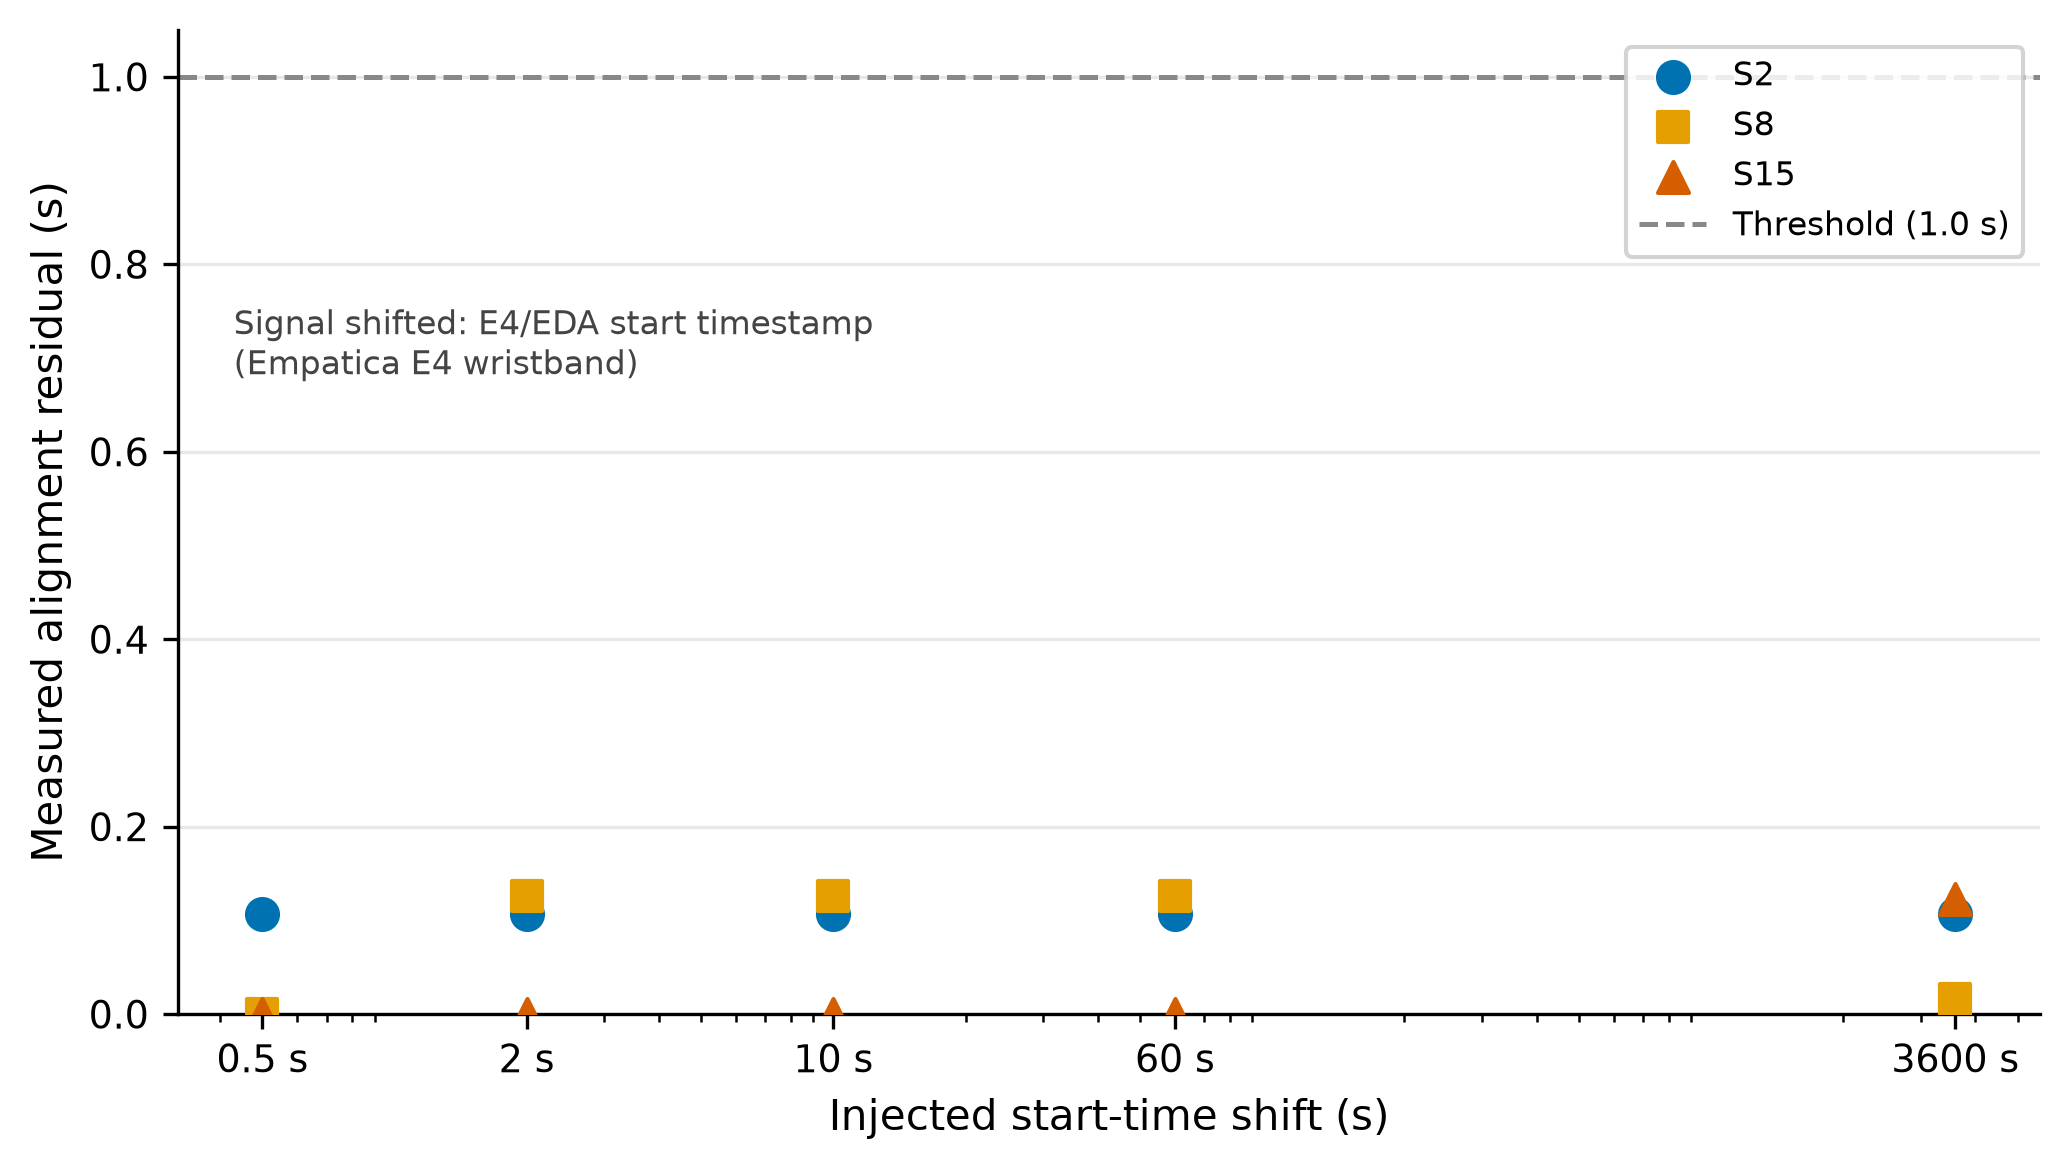
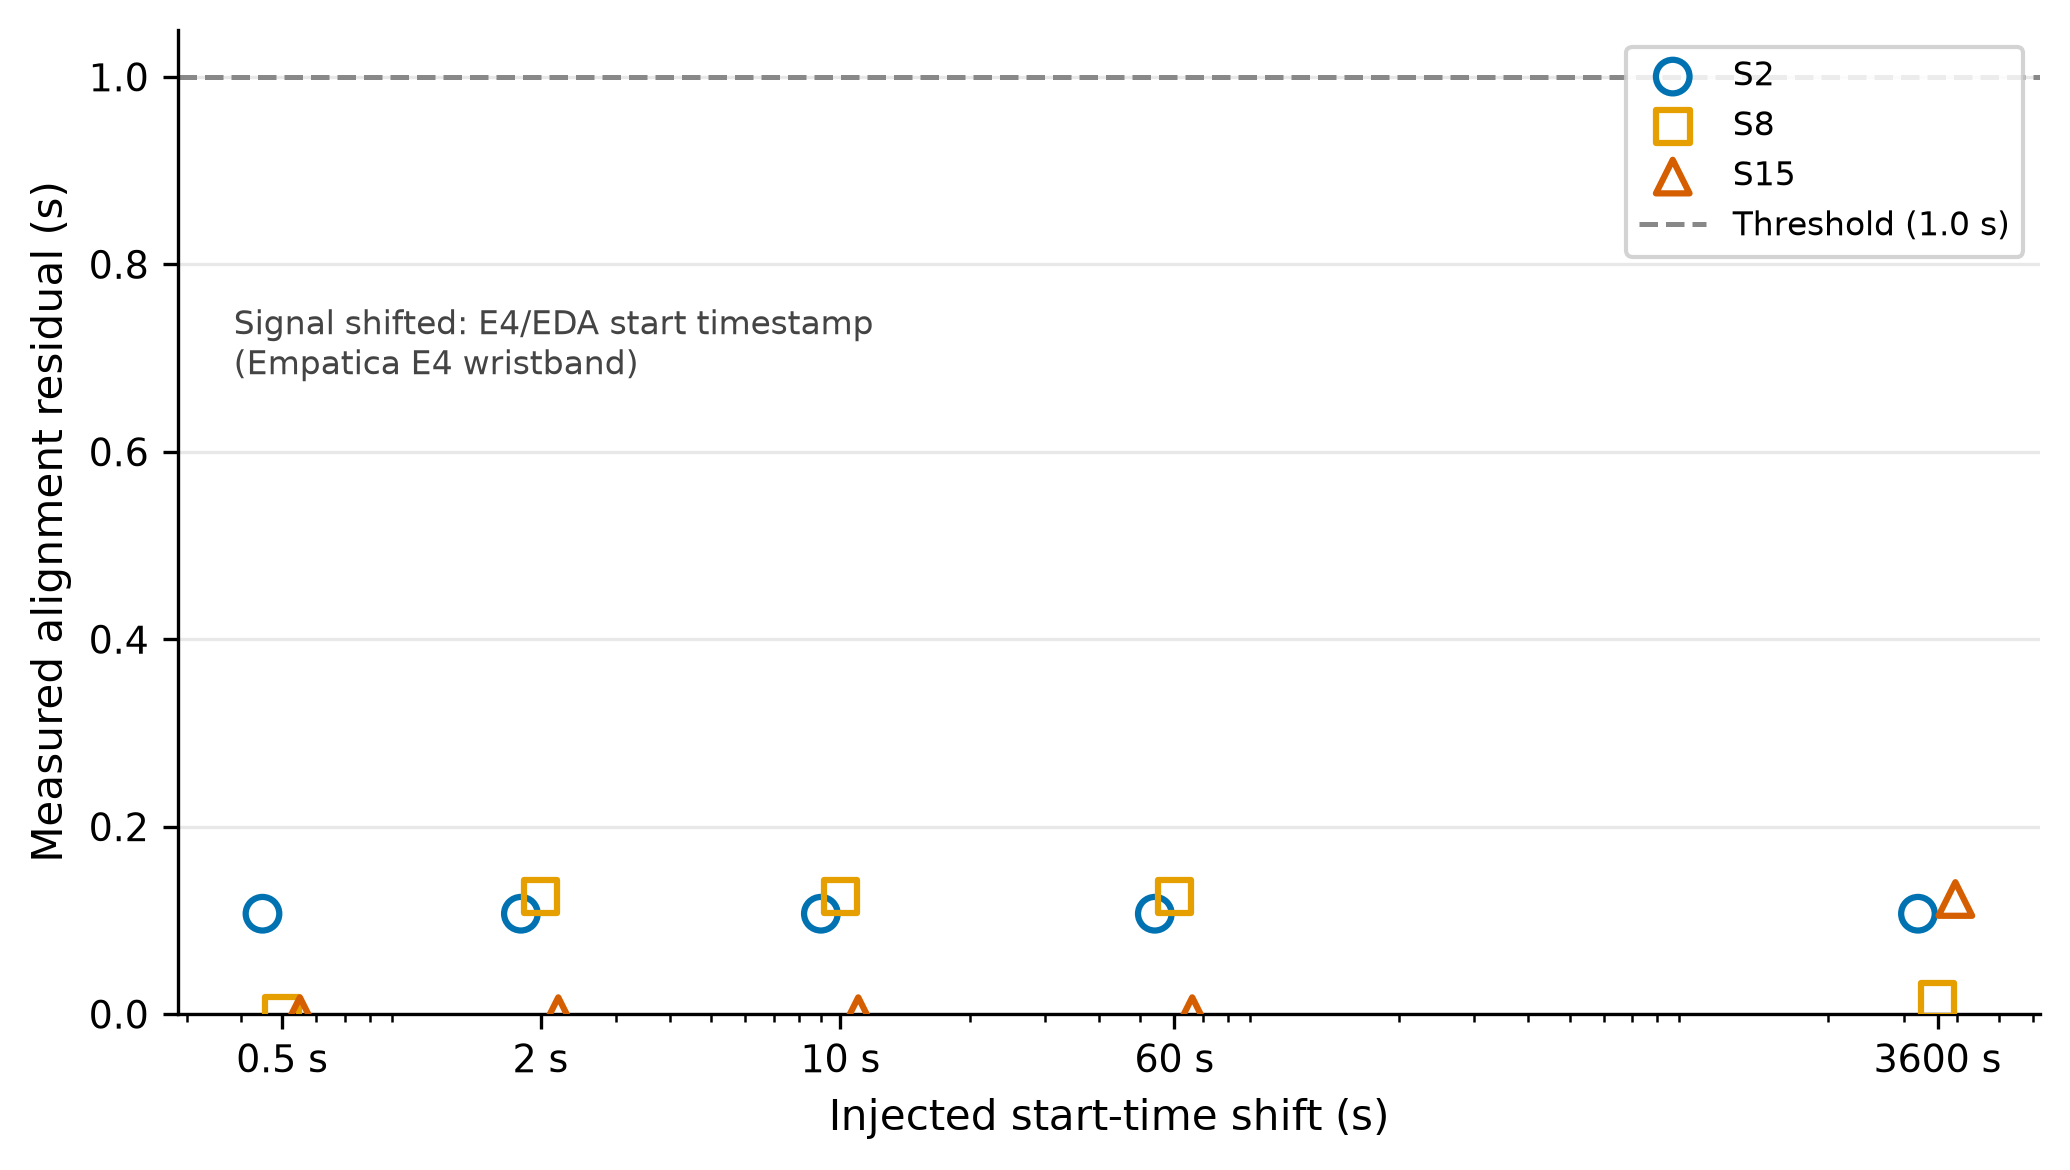
fix(figures): v3 -- break marks and timeliness scatter fixes
Fig 4.1: replace ad-hoc transAxes line segments with the standard
  matplotlib break-mark approach: marker=[(-1,-0.5),(1,0.5)],
  markersize=12, linestyle="none", clip_on=False, placed at (0,0)/(1,0)
  in ax_hi.transAxes and (0,1)/(1,1) in ax_lo.transAxes. All four marks
  are identical size and sit exactly on the axis spine boundary.

Fig 4.2b: switch to hollow markers (facecolors="none") and jitter each
  participant's x position by x0.9/x1.0/x1.1 on the log scale so all
  three participants are visible at every offset. Tick labels remain at
  the true injected offsets.

_save(): add retry loop (up to 5 attempts, 1.5 s delay) to tolerate
  transient OneDrive file locks during development.

109/109 tests pass. git diff touches only src/figures/ and figures/.

diff --git a/src/figures/make_figures.py b/src/figures/make_figures.py
@@ -9,6 +9,7 @@ Tables go to figures/tables/ (CSV + Markdown).
 
 import csv
 import json
+import time
 from pathlib import Path
 
 import matplotlib
@@ -97,10 +98,19 @@ def _load(name: str) -> dict:
 
 
 def _save(fig: plt.Figure, stem: str) -> None:
-    """Save figure as PNG and PDF."""
+    """Save figure as PNG and PDF, retrying on transient file-lock errors."""
     FIGURES.mkdir(parents=True, exist_ok=True)
-    fig.savefig(FIGURES / f"{stem}.png", dpi=DPI, bbox_inches="tight")
-    fig.savefig(FIGURES / f"{stem}.pdf", bbox_inches="tight")
+    for ext, kwargs in [(".png", {"dpi": DPI, "bbox_inches": "tight"}),
+                        (".pdf", {"bbox_inches": "tight"})]:
+        path = FIGURES / f"{stem}{ext}"
+        for attempt in range(5):
+            try:
+                fig.savefig(path, **kwargs)
+                break
+            except OSError:
+                if attempt == 4:
+                    raise
+                time.sleep(1.5)
     plt.close(fig)
 
 
@@ -368,18 +378,13 @@ def fig_temp_artefact(pid: str = "S2") -> None:
         fontsize=10,
     )
 
-    # -- break marks: use transAxes, clip_on=True (default) so nothing draws outside --
-    # height_ratios=[1, 2] -> bottom panel is physically 2x taller.
-    # To get equal physical mark size: d_lo = d_hi * (1/2).
-    d_hi = 0.05   # axes fraction for top (shorter) panel
-    d_lo = 0.025  # axes fraction for bottom (taller) panel
-    bk = dict(color=BLACK, lw=1.2)
-    # bottom edge of top panel (break line, marks straddle y=0 in transAxes)
-    ax_hi.plot((-d_hi, d_hi), (-d_hi, d_hi), transform=ax_hi.transAxes, **bk)
-    ax_hi.plot((1 - d_hi, 1 + d_hi), (-d_hi, d_hi), transform=ax_hi.transAxes, **bk)
-    # top edge of bottom panel (break line, marks straddle y=1 in transAxes)
-    ax_lo.plot((-d_lo, d_lo), (1 - d_lo, 1 + d_lo), transform=ax_lo.transAxes, **bk)
-    ax_lo.plot((1 - d_lo, 1 + d_lo), (1 - d_lo, 1 + d_lo), transform=ax_lo.transAxes, **bk)
+    # -- break marks: standard matplotlib diagonal-marker approach --
+    # marker path [(-1,-0.5),(1,0.5)] draws a "/" slash; placed at the axis
+    # spine corners with clip_on=False so the mark straddles the boundary.
+    bk = dict(marker=[(-1, -0.5), (1, 0.5)], markersize=12,
+              linestyle="none", color=BLACK, clip_on=False)
+    ax_hi.plot([0, 1], [0, 0], transform=ax_hi.transAxes, **bk)
+    ax_lo.plot([0, 1], [1, 1], transform=ax_lo.transAxes, **bk)
 
     fig.subplots_adjust(left=0.12, right=0.95, top=0.97, bottom=0.10, hspace=0.08)
     _save(fig, "fig4_1_temp_artefact")
@@ -601,17 +606,20 @@ def fig_timeliness_shift(fi: dict) -> None:
 
     fig, ax = plt.subplots(figsize=(7, 4))
 
-    markers = ["o", "s", "^"]
-    colours = [BLUE, ORANGE, VERMILION]
+    markers  = ["o", "s", "^"]
+    colours  = [BLUE, ORANGE, VERMILION]
+    x_scales = [0.9, 1.0, 1.1]   # jitter each participant on the log scale
     for idx, pid in enumerate(pids):
-        pts = {r["offset_injected_s"]: r["dirty_residual_s"]
-               for r in tim if r["participant"] == pid}
-        xs = [off for off in offsets]
-        ys = [pts[off] for off in offsets]
+        pts   = {r["offset_injected_s"]: r["dirty_residual_s"]
+                 for r in tim if r["participant"] == pid}
+        scale = x_scales[idx % len(x_scales)]
+        xs    = [off * scale for off in offsets]
+        ys    = [pts[off] for off in offsets]
         ax.scatter(xs, ys,
-                   color=colours[idx % len(colours)],
+                   facecolors="none",
+                   edgecolors=colours[idx % len(colours)],
                    marker=markers[idx % len(markers)],
-                   s=55, zorder=4, label=pid)
+                   s=65, linewidths=1.5, zorder=4, label=pid)
 
     threshold = 1.0
     ax.axhline(threshold, color="#888888", lw=1.2, ls="--",
